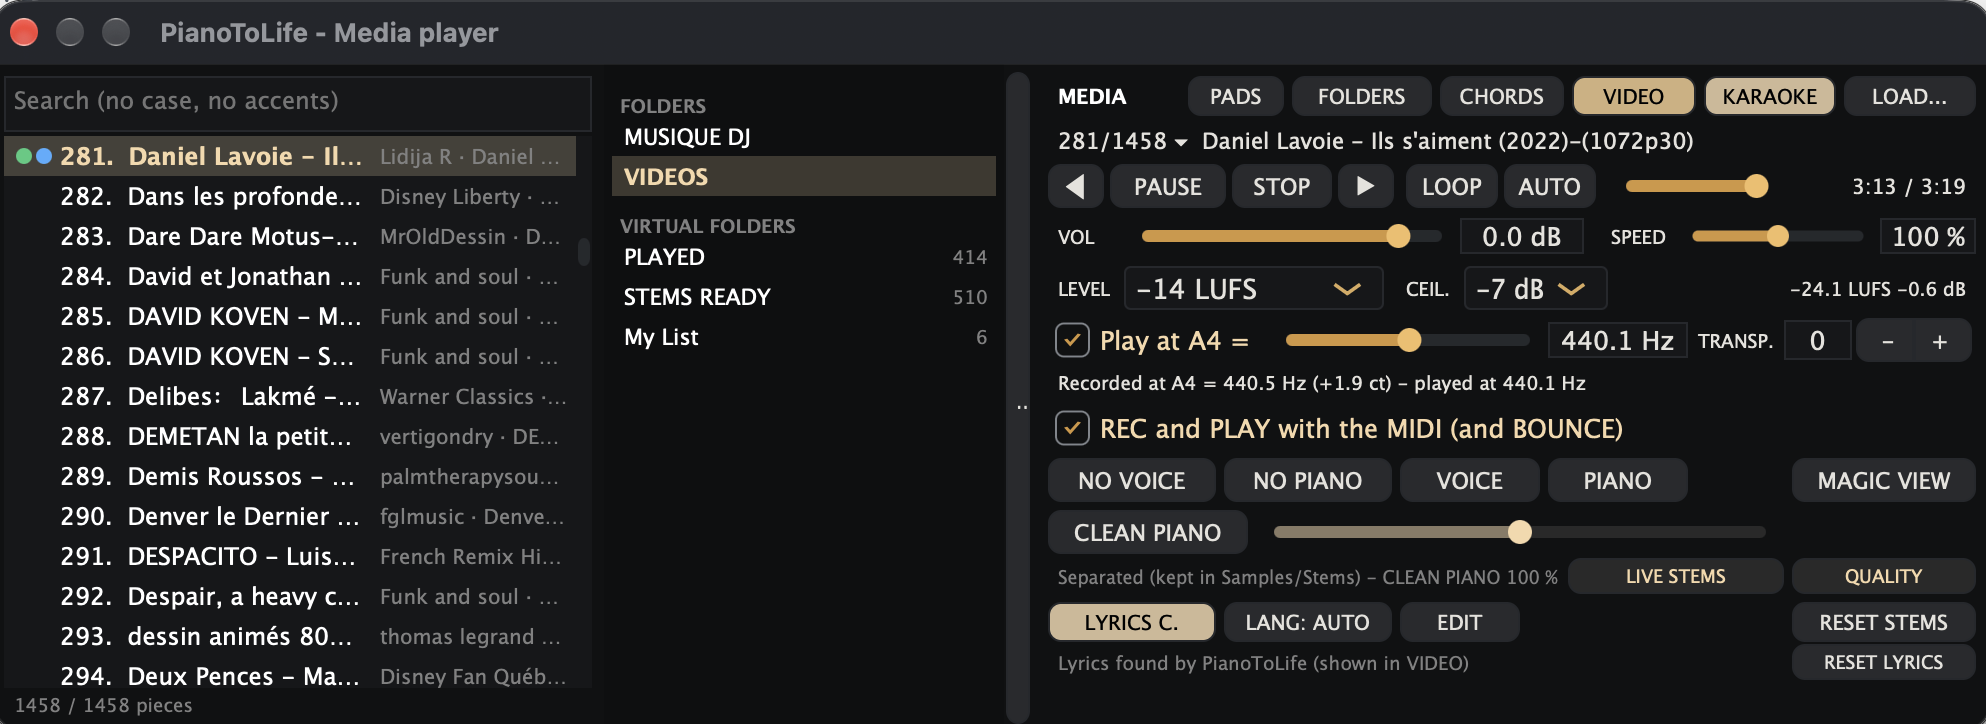
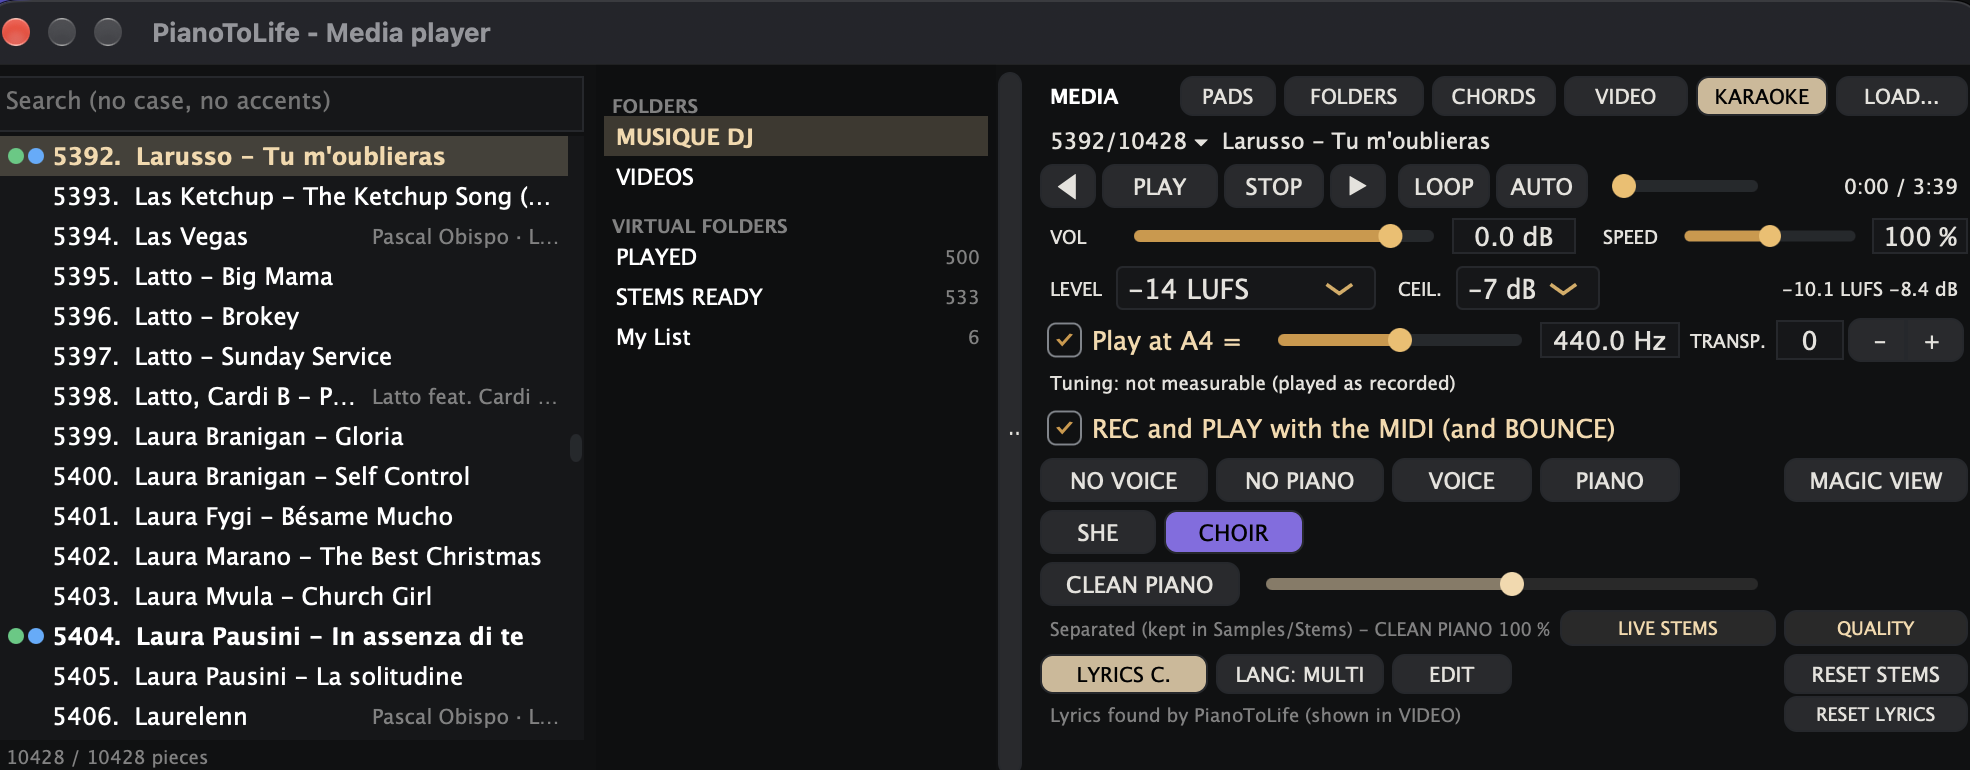
11.3.7: README, manuals, changelog, screenshots

diff --git a/README.md b/README.md
@@ -6,7 +6,7 @@ with one live, physically modelled string engine — from a single held key to e
 <p align="center"><b>New in 10:</b> no hosted piano needed — play your own samples with the built-in sampler.<br>Pedal-up samples are enough: resonance, pedals and noises are modelled live (hybrid sampling + modelling).</p>
 
 <p align="center">
-  <img src="Screenshot-A.png?v=1136" alt="PianoToLife: the main window (SAMPLER mode, a sampled Steinway B)" width="900">
+  <img src="Screenshot-A.png?v=1137" alt="PianoToLife: the main window (SAMPLER mode, a sampled Steinway B)" width="900">
 </p>
 
 <p align="center">
@@ -53,11 +53,11 @@ release or resonance samples. A 3- to 6-layer pedal-up library is enough: PianoT
 so it plays like a deeply sampled piano, even when the library is badly cut or normalised.
 
 <p align="center">
-  <img src="Screenshot-E.png?v=1136" alt="SAMPLER EDIT: the DRY / DENOISE / BODY panel, NOISY 0-100 %" width="900">
+  <img src="Screenshot-E.png?v=1137" alt="SAMPLER EDIT: the DRY / DENOISE / BODY panel, NOISY 0-100 %" width="900">
 </p>
 
 <p align="center">
-  <img src="Screenshot-J.png?v=1136" alt="SAMPLER EDIT: LISTEN from one velocity to another - ALL 1-127, THIS LAYER, ITS BOUNDARY" width="520">
+  <img src="Screenshot-J.png?v=1137" alt="SAMPLER EDIT: LISTEN from one velocity to another - ALL 1-127, THIS LAYER, ITS BOUNDARY" width="520">
 </p>
 
 
@@ -67,7 +67,7 @@ Load a song, a playlist, a folder or a video, and play your piano with it. The M
 (29 EUR or 29 USD minimum, one payment, no subscription; 3 minutes of demo per session without the password).
 
 <p align="center">
-  <img src="Screenshot-B.png?v=1136" alt="The MEDIA player with FOLDERS and the pieces (SEARCH) at its left; VIDEO and KARAOKE, AUTO, SPEED, LEVEL and CEIL., Play at A4 and TRANSP., NO VOICE / NO PIANO / VOICE / PIANO, CLEAN PIANO, LIVE STEMS, LYRICS" width="900">
+  <img src="Screenshot-B.png?v=1137" alt="The MEDIA player with FOLDERS and the pieces (SEARCH) at its left; VIDEO and KARAOKE, AUTO, SPEED, LEVEL and CEIL., Play at A4 and TRANSP., NO VOICE / NO PIANO / VOICE / PIANO, the singers' buttons (SHE, CHOIR), CLEAN PIANO, LIVE STEMS, LYRICS" width="900">
 </p>
 
 - **NO VOICE / NO PIANO / CLEAN PIANO**: the piece separated once on your computer (kept in the stems folder: Samples/Stems, or a folder you choose, shared on the network), then played
@@ -78,7 +78,7 @@ Load a song, a playlist, a folder or a video, and play your piano with it. The M
   network. Then **MASTER** on the one you play on and **FOLLOW** on the other (11.3.4): it separates what you ask.
 
 <p align="center">
-  <img src="Screenshot-I.png?v=1136" alt="Right-click FAST / QUALITY: the stems folder (one shared on the network lets another computer separate for this one)" width="520">
+  <img src="Screenshot-I.png?v=1137" alt="Right-click FAST / QUALITY: the stems folder (one shared on the network lets another computer separate for this one)" width="520">
 </p>
 
 - **In tune and in your key**: *Play at A4* plays the recording at the A4 of your piano (432 to 448 Hz), and **TRANSP.**
@@ -94,7 +94,7 @@ Load a song, a playlist, a folder or a video, and play your piano with it. The M
   film in several languages.
 
 <p align="center">
-  <img src="Screenshot-F.png?v=1136" alt="PADS: 4 x 4 pads on 5 pages, a MIDI controller, MEDIA or PAD, TOGGLE or HOLD, MIDI LEARN" width="640">
+  <img src="Screenshot-F.png?v=1137" alt="PADS: 4 x 4 pads on 5 pages, a MIDI controller, MEDIA or PAD, TOGGLE or HOLD, MIDI LEARN" width="640">
 </p>
 
 > **Disk space.** A file that macOS or Windows cannot read directly — a video's sound (MP4, MOV...), a format decoded by
@@ -107,7 +107,7 @@ Load a song, a playlist, a folder or a video, and play your piano with it. The M
 > large disk for it.
 
 <p align="center">
-  <img src="Screenshot-D.png?v=1136" alt="VIDEO with FOR LIVE: the line sung framed, the next one in full colour (the picture blurred here)" width="900">
+  <img src="Screenshot-D.png?v=1137" alt="VIDEO with FOR LIVE: the line sung framed, the next one in full colour (the picture blurred here)" width="900">
 </p>
 
 - **CHORDS**: the chords and the key of the piece, scrolling in time with it (and transposed with it).
@@ -118,7 +118,7 @@ Load a song, a playlist, a folder or a video, and play your piano with it. The M
 ### LYRICS: found, corrected, in time
 
 <p align="center">
-  <img src="Screenshot-C.png?v=1136" alt="LYRICS EDIT: the lyrics proposed by LRCLIB, what Whisper heard, the lines aligned on the voice; the duet menu (HE, SHE, 1, 2, BOTH, CHOIR); STOP, UNDO / REDO, DELETE LYRICS, ANALYSE DUO" width="900">
+  <img src="Screenshot-C.png?v=1137" alt="LYRICS EDIT: the lyrics proposed by LRCLIB, what Whisper heard, the lines aligned on the voice; the duet menu (HE, SHE, 1, 2, BOTH, CHOIR); STOP, UNDO / REDO, DELETE LYRICS" width="900">
 </p>
 
 - **LYRICS** listens to the separated voice of the piece and writes its lyrics in time (Whisper, on your computer). The
@@ -130,7 +130,29 @@ Load a song, a playlist, a folder or a video, and play your piano with it. The M
 
 ---
 
-## What's new in 11.3.6
+## What's new in 11.3.7
+
+**Duets on stage: each singer's voice on its own, a ball over the words, lyrics that follow the version sung.**
+
+- **Singers' buttons** under the stems: **LEAD / HE / SHE / 1 / 2 / 3 / 4 / BOTH / CHOIR** (the ones the lyrics use).
+  Lit: heard; the others' voice is taken out - sing their part. Right-click **NO VOICE**: **CUT** and **BACK**
+  (when the voice goes and comes back, -1200 to +1200 ms, -300 by default), **FADE OUT** and **FADE IN** (0 to 500 ms).
+- **VIDEO**: **BALL** - a ball jumps from word to word over the line sung (SETTINGS; instead of the pale fill); lines
+  never overlap; VIDEO follows a jump of the player at once. Marks **3** and **4** for four singers.
+- **LYRICS EDIT**: a click on a line plays it at once; **◀ 1 / ◀ .1 / .1 ▶ / 1 ▶** (or the arrow keys) move a line,
+  kept by SAVE; the line on the right shows its line on the left; **TIMES: AUTO / LRC / VOICE** - a cover sung slower or
+  faster is timed on its voice, lines it does not sing are greyed (right-click: *Sung here*); words compared by their
+  sound too; saved by itself before *Who sings each word...* and at its OK, so the change is heard at once.
+- **LYRICS**: **MULTI** for a song in two languages (a pass in each); the singing found from its first phrase; the
+  LRCLIB results ranked by what Whisper heard (**% heard** in the list).
+- **BOUNCE ALL**: *From this piece to the end of the playlist*; it waits for the piece before, skips one that cannot be
+  done (listed at the end) and shows the time left; long silences (pauses between movements) no longer make a
+  bounce start again in real time.
+- **MASTER / FOLLOW**: CANCEL on the master, RESET seen on the follower. Windows: the list of pieces no longer jumps
+  back up while their tags are read.
+- **ANALYSE DUO** is set aside in this version; the marks are put by hand (right-click a line, *Who sings each word...*).
+
+### Also in 11.3.6
 
 **Karaoke for the stage: VIDEO, KARAOKE, FOR LIVE, duets - and lyrics that are found more often.**
 
@@ -141,7 +163,7 @@ Load a song, a playlist, a folder or a video, and play your piano with it. The M
 - **FOR LIVE** (a screen filmed with a phone): a thick outline around the letters, the line sung framed, the next line
   in full colour. **FILL OFF**: the whole line to sing lit at once.
 - **Duets**: HE / SHE / 1 / 2 / BOTH / CHOIR at the start of a line, or for a few words inside it (*Who sings each
-  word...*), each in its own colour in VIDEO; **ANALYSE DUO** proposes them from the height of the voice.
+  word...*), each in its own colour in VIDEO.
 - **LYRICS EDIT**: a **HEARD BY WHISPER** column (click a word: play from it), STOP, UNDO / REDO, DELETE LYRICS, the
   language beside ANALYSE; lines added or moved keep LRCLIB's times; the lyrics saved here stay when it opens again.
 - **LYRICS** finds the words more often: Whisper starts at the first phrase sung (live recordings with a long intro),
@@ -266,11 +288,11 @@ Load a song, a playlist, a folder or a video, and play your piano with it. The M
 - **STEMS READY** lists each separated piece once.
 
 <p align="center">
-  <img src="Screenshot-G.png?v=1136" alt="TEMPERAMENT (SAMPLER): Equal, Stretch 100 %, FIX KEYS and CLEAR FIX, the table Recorded / Played / Shift" width="640">
+  <img src="Screenshot-G.png?v=1137" alt="TEMPERAMENT (SAMPLER): Equal, Stretch 100 %, FIX KEYS and CLEAR FIX, the table Recorded / Played / Shift" width="640">
 </p>
 
 <p align="center">
-  <img src="Screenshot-H.png?v=1136" alt="TEMPERAMENT (HOST): the hosted piano tuned to Equal, Stretch 100 %, FIX KEYS, EXPORT .txt + .scl" width="640">
+  <img src="Screenshot-H.png?v=1137" alt="TEMPERAMENT (HOST): the hosted piano tuned to Equal, Stretch 100 %, FIX KEYS, EXPORT .txt + .scl" width="640">
 </p>
 
 ### Also in 11.2.6

diff --git a/MANUEL.md b/MANUEL.md
@@ -1,6 +1,6 @@
 # PianoToLife — Manuel d'utilisation
 
-*Version 11.3.6 · [English version](USER_MANUAL.md) · Mapping du sampler : [Manuel du sampler](MANUEL_SAMPLER.md)*
+*Version 11.3.7 · [English version](USER_MANUAL.md) · Mapping du sampler : [Manuel du sampler](MANUEL_SAMPLER.md)*
 
 PianoToLife fait **se comporter un piano virtuel comme un vrai** : les cordes qui résonnent par sympathie, la pédale
 de sustain et la demi-pédale, les étouffoirs, le relâchement, l'una corda, les bruits de la mécanique. Ce manuel
@@ -839,9 +839,7 @@ s'entend souvent tout de suite : la salle du piano se révèle, au lieu d'être 
     **BOTH :**, **CHOIR :** (lus aussi : LUI, ELLE, ENSEMBLE, HIM, HER, CHOEUR...). Dans LYRICS EDIT, clic droit sur une
     ligne : qui la chante, *Rename all* (HE / SHE <-> 1 / 2, échanger les deux), ou *Who sings each word...* - un pinceau
     par chanteur, un clic ou un glisser sur les mots : ces mots sont écrits « (SHE: mots) » dans la ligne. Dans VIDEO, la
-    marque s'affiche quand le chanteur change, chaque chanteur dans sa couleur. **ANALYSE DUO** propose les marques
-    d'après la hauteur de la voix séparée (HE / SHE pour un homme et une femme, 1 / 2 pour deux voix plus proches, BOTH
-    quand ils chantent ensemble) ; vérifiez-les, puis SAVE.
+    marque s'affiche quand le chanteur change, chaque chanteur dans sa couleur. Vérifiez-les, puis SAVE.
   - **11.3.6 — LYRICS EDIT** : trois colonnes - les paroles proposées, **HEARD BY WHISPER** (ses mots avec leurs temps ;
     le mot entendu en ce moment allumé ; clic sur un mot : lecture à partir de lui) et les lignes alignées. **STOP** à
     côté de PLAY, **UNDO / REDO** (Cmd+Z / Cmd+Maj+Z) pour ce qui est tapé et les marques posées, **DELETE LYRICS** (ce
@@ -863,6 +861,39 @@ s'entend souvent tout de suite : la salle du piano se révèle, au lieu d'être 
   - **11.3.6 — accordage HOST** (TEMPERAMENT, Piano Model) : la hauteur de chaque touche est son premier partiel quand la
     capture l'a mesuré ; la droite des partiels (inharmonicité) ne sert que là où il manque - moins de fausses
     corrections dans l'aigu avec FIX KEYS.
+  - **11.3.7 — boutons des chanteurs** (sous les stems, quand les paroles ont des marques de duo) : **LEAD** (les mots
+    sans marque, quand d'autres en ont une), **HE**, **SHE**, **1**, **2**, **3**, **4**, **BOTH**, **CHOIR** - seulement
+    ceux que les paroles utilisent. Allumé : ce chanteur est entendu ; plusieurs peuvent être allumés ; aucun : toute la
+    voix. Les mots des chanteurs non allumés sont retirés de la voix, sans interruption entre eux quel que soit le
+    silence, pour que vous chantiez leur partie. NO VOICE passe d'abord (toute la voix retirée). Clic droit sur NO
+    VOICE : **CUT** (quand la voix part) et **BACK** (quand elle revient), de -1200 à +1200 ms, -300 par défaut ;
+    **FADE OUT** et **FADE IN** (0 à 500 ms, 100 par défaut). Une marque en début de ligne (HE :) vaut pour les lignes
+    suivantes, jusqu'à la prochaine ; « (SHE: mots) » seulement pour ces mots. Marques **3** et **4** pour quatre
+    chanteurs.
+  - **11.3.7 — VIDEO** : **BALL** (SETTINGS, à la place du remplissage pâle) : une balle saute de mot en mot au-dessus de
+    la ligne chantée, sur chaque mot quand il commence. Les lignes ne se chevauchent jamais ; après un saut du lecteur,
+    VIDEO suit tout de suite.
+  - **11.3.7 — LYRICS EDIT** : un clic sur une ligne la joue tout de suite ; les colonnes ne bougent pas sous la souris.
+    La ligne choisie à droite : **◀ 1 / ◀ .1 / .1 ▶ / 1 ▶** (ou les flèches, Maj : 1 s) la déplacent, Cmd+Z annule le
+    dernier déplacement, SAVE garde les temps ; sa ligne est allumée à gauche. **TIMES** - **AUTO** : les temps des
+    paroles quand ils collent à la voix, sinon **VOICE** : calées sur la voix, les lignes non entendues étirées entre
+    celles entendues (une reprise chantée plus lentement ou plus vite) ; **LRC** : les temps des paroles tels quels. En
+    VOICE, les lignes que cette version ne chante pas sont grisées et non enregistrées (clic droit : *Sung here*). Les
+    mots sont aussi comparés par leur son (un mot entendu un peu autrement est retrouvé). Les paroles sont enregistrées
+    d'elles-mêmes avant *Who sings each word...* et à son OK - la coupure de la voix suit tout de suite ; les mots du
+    chanteur de la ligne sont montrés dans sa couleur. Le menu des langues a **MULTI** pour une chanson en deux langues
+    (une passe dans chacune). Les résultats LRCLIB sont classés d'après ce que Whisper a entendu (les mots hors
+    parenthèses) : **% heard** à côté de chacun.
+  - **11.3.7 — LYRICS** : le début du chant est retrouvé en remontant jusqu'à 4 s de calme.
+  - **11.3.7 — BOUNCE ALL** : les morceaux peuvent être *From this piece to the end of the playlist* ; chaque morceau
+    attend que le précédent soit écrit (2 minutes au plus), sinon il est sauté et listé à la fin ; le temps restant est
+    affiché. Un bounce rapide ne recommence plus en temps réel pour un long silence de la musique (pauses entre les
+    mouvements) ; quand il le fait, la note dit où le son avait un trou.
+  - **11.3.7 — MASTER / FOLLOW** : CANCEL sur le maître arrête une séparation qu'il a envoyée ; RESET STEMS / RESET
+    LYRICS sur le maître est refait sur le suiveur. Windows : la liste des morceaux ne remonte plus pendant la lecture
+    de leurs tags.
+  - **11.3.7 — ANALYSE DUO** est mis de côté dans cette version : posez les marques à la main (clic droit sur une ligne,
+    *Who sings each word...*).
   - **Place sur le disque** (11.2.1) : un fichier que le système ne lit pas directement — le son d'une vidéo, un format
     décodé par FFmpeg ou une autre piste audio — est décodé une fois et **gardé** dans un cache (Mac : `~/Library/
     Application Support/PianoToLife/Video sound` ; Windows : `%APPDATA%\PianoToLife\Video sound`), les 30 plus récents ;

diff --git a/USER_MANUAL.md b/USER_MANUAL.md
@@ -1,6 +1,6 @@
 # PianoToLife — User Manual
 
-*Version 11.3.6 · [Version française](MANUEL.md) · Sampler mapping: [Sampler Manual](SAMPLER_MANUAL.md)*
+*Version 11.3.7 · [Version française](MANUEL.md) · Sampler mapping: [Sampler Manual](SAMPLER_MANUAL.md)*
 
 PianoToLife makes a virtual piano **behave like a real one**: the strings that ring in sympathy, the sustain pedal
 and half pedal, the dampers, the release, the una corda, the noises of the mechanism. This manual explains how it
@@ -772,9 +772,7 @@ saved beside it, then the BOUNCE options open); PLAY plays the take at once. LOA
     **BOTH :**, **CHOIR :** (also read: LUI, ELLE, ENSEMBLE, HIM, HER, CHOEUR...). In LYRICS EDIT, right-click a line:
     who sings it, *Rename all* (HE / SHE <-> 1 / 2, swap the two), or *Who sings each word...* - a brush per singer, a
     click or a drag over the words: those words are written "(SHE: words)" inside the line. In VIDEO the mark is shown
-    when the singer changes, each singer in its colour. **ANALYSE DUO** proposes the marks from the height of the
-    separated voice (HE / SHE for a man and a woman, 1 / 2 for two voices closer, BOTH when they sing together);
-    check them, then SAVE.
+    when the singer changes, each singer in its colour. Check them, then SAVE.
   - **11.3.6 — LYRICS EDIT**: three columns - the lyrics proposed, **HEARD BY WHISPER** (its words with their times;
     the word heard now lit; click a word: play from it) and the lines aligned. **STOP** beside PLAY, **UNDO / REDO**
     (Cmd+Z / Cmd+Shift+Z) for what is typed and the marks put, **DELETE LYRICS** (what PianoToLife found for this piece;
@@ -795,6 +793,35 @@ saved beside it, then the BOUNCE options open); PLAY plays the take at once. LOA
   - **11.3.6 — HOST tuning** (TEMPERAMENT, Piano Model): each key's pitch is its first partial when the capture measured
     it; the line of the partials (inharmonicity) is used only where it is missing - fewer false corrections in the
     treble with FIX KEYS.
+  - **11.3.7 — singers' buttons** (under the stems, when the lyrics have duet marks): **LEAD** (the words without a
+    mark, when some have one), **HE**, **SHE**, **1**, **2**, **3**, **4**, **BOTH**, **CHOIR** - only the ones the lyrics
+    use. Lit: that singer is heard; several can be lit; none lit: the whole voice. The words of the singers not lit
+    are taken out of the voice, without a break between them however long the silence, so that you sing their part.
+    NO VOICE comes first (the whole voice out). Right-click NO VOICE: **CUT** (when the voice goes) and **BACK** (when
+    it comes back), -1200 to +1200 ms, -300 by default; **FADE OUT** and **FADE IN** (0 to 500 ms, 100 by default).
+    A mark at the start of a line (HE :) counts for the lines after it, up to the next one; "(SHE: words)" only for
+    those words. Marks **3** and **4** for four singers.
+  - **11.3.7 — VIDEO**: **BALL** (SETTINGS, instead of the pale fill): a ball jumps from word to word over the line
+    sung, landing on each word as it starts. The lines never overlap; after a jump of the player VIDEO follows at once.
+  - **11.3.7 — LYRICS EDIT**: a click on a line plays it at once; the columns stay where they are under the mouse.
+    The line chosen on the right: **◀ 1 / ◀ .1 / .1 ▶ / 1 ▶** (or the arrow keys, Shift: 1 s) move it, Cmd+Z undoes the
+    last move, SAVE keeps the times; its line is lit on the left. **TIMES** - **AUTO**: the lyrics' own times when they
+    fit the voice, else **VOICE**: timed on the voice, the lines not heard stretched between the ones heard (a cover
+    sung slower or faster); **LRC**: the lyrics' times as they are. With VOICE, lines this version does not sing are
+    greyed and not saved (right-click: *Sung here*). The words are compared by their sound too (a word heard a little
+    differently is found). The lyrics are saved by themselves before *Who sings each word...* and at its OK - the
+    voice cut follows at once; the words of the line's singer are shown in its colour. The language menu has
+    **MULTI** for a song in two languages (a pass in each). The LRCLIB results are ranked by what Whisper heard (the
+    words outside brackets): **% heard** beside each one.
+  - **11.3.7 — LYRICS**: the start of the singing is found back over up to 4 s of quiet.
+  - **11.3.7 — BOUNCE ALL**: the pieces can be *From this piece to the end of the playlist*; each piece waits for the
+    one before to be written (2 minutes at most), else it is skipped and listed at the end; the time left is shown.
+    A fast bounce no longer starts again in real time for a long silence in the music (pauses between movements);
+    when it does, the note says where the sound had a hole.
+  - **11.3.7 — MASTER / FOLLOW**: CANCEL on the master stops a separation it sent; RESET STEMS / RESET LYRICS on the
+    master is done on the follower too. Windows: the list of pieces no longer jumps back up while their tags are read.
+  - **11.3.7 — ANALYSE DUO** is set aside in this version: put the marks by hand (right-click a line, *Who sings each
+    word...*).
   - **Disk space** (11.2.1): a file the system cannot read directly — a video's sound, a format decoded by FFmpeg, or
     another audio track — is decoded once and **kept** in a cache (Mac: `~/Library/Application Support/PianoToLife/Video
     sound`; Windows: `%APPDATA%\PianoToLife\Video sound`), the 30 newest; a long film can take more than 1 GB. Delete

diff --git a/CHANGELOG.md b/CHANGELOG.md
@@ -2,6 +2,28 @@
 
 Every version, the newest first. The [README](README.md) shows what PianoToLife does today.
 
+## 11.3.7
+
+**Duets on stage: each singer's voice on its own, a ball over the words, lyrics that follow the version sung.**
+
+- **Singers' buttons** under the stems: **LEAD / HE / SHE / 1 / 2 / 3 / 4 / BOTH / CHOIR** (the ones the lyrics use).
+  Lit: heard; the others' voice is taken out - sing their part. Right-click **NO VOICE**: **CUT** and **BACK**
+  (when the voice goes and comes back, -1200 to +1200 ms, -300 by default), **FADE OUT** and **FADE IN** (0 to 500 ms).
+- **VIDEO**: **BALL** - a ball jumps from word to word over the line sung (SETTINGS; instead of the pale fill); lines
+  never overlap; VIDEO follows a jump of the player at once. Marks **3** and **4** for four singers.
+- **LYRICS EDIT**: a click on a line plays it at once; **◀ 1 / ◀ .1 / .1 ▶ / 1 ▶** (or the arrow keys) move a line,
+  kept by SAVE; the line on the right shows its line on the left; **TIMES: AUTO / LRC / VOICE** - a cover sung slower or
+  faster is timed on its voice, lines it does not sing are greyed (right-click: *Sung here*); words compared by their
+  sound too; saved by itself before *Who sings each word...* and at its OK, so the change is heard at once.
+- **LYRICS**: **MULTI** for a song in two languages (a pass in each); the singing found from its first phrase; the
+  LRCLIB results ranked by what Whisper heard (**% heard** in the list).
+- **BOUNCE ALL**: *From this piece to the end of the playlist*; it waits for the piece before, skips one that cannot be
+  done (listed at the end) and shows the time left; long silences (pauses between movements) no longer make a
+  bounce start again in real time.
+- **MASTER / FOLLOW**: CANCEL on the master, RESET seen on the follower. Windows: the list of pieces no longer jumps
+  back up while their tags are read.
+- **ANALYSE DUO** is set aside in this version; the marks are put by hand (right-click a line, *Who sings each word...*).
+
 ## 11.3.6
 
 **Karaoke for the stage: VIDEO, KARAOKE, FOR LIVE, duets - and lyrics that are found more often.**
@@ -13,7 +35,7 @@ Every version, the newest first. The [README](README.md) shows what PianoToLife 
 - **FOR LIVE** (a screen filmed with a phone): a thick outline around the letters, the line sung framed, the next line
   in full colour. **FILL OFF**: the whole line to sing lit at once.
 - **Duets**: HE / SHE / 1 / 2 / BOTH / CHOIR at the start of a line, or for a few words inside it (*Who sings each
-  word...*), each in its own colour in VIDEO; **ANALYSE DUO** proposes them from the height of the voice.
+  word...*), each in its own colour in VIDEO.
 - **LYRICS EDIT**: a **HEARD BY WHISPER** column (click a word: play from it), STOP, UNDO / REDO, DELETE LYRICS, the
   language beside ANALYSE; lines added or moved keep LRCLIB's times; the lyrics saved here stay when it opens again.
 - **LYRICS** finds the words more often: Whisper starts at the first phrase sung (live recordings with a long intro),

diff --git a/MANUEL_SAMPLER.md b/MANUEL_SAMPLER.md
@@ -1,6 +1,6 @@
 # Sampler de PianoToLife — Manuel d'utilisation
 
-*Version 11.3.6 · [English version](SAMPLER_MANUAL.md) · Manuel général : [Manuel d'utilisation](MANUEL.md)*
+*Version 11.3.7 · [English version](SAMPLER_MANUAL.md) · Manuel général : [Manuel d'utilisation](MANUEL.md)*
 
 Le sampler intégré de PianoToLife joue **vos propres échantillons de piano**, avec tous les moteurs de PianoToLife
 par-dessus. Ce manuel explique comment transformer un dossier d'échantillons en piano jouable, ce que fait chaque

diff --git a/SAMPLER_MANUAL.md b/SAMPLER_MANUAL.md
@@ -1,6 +1,6 @@
 # PianoToLife Sampler — User Manual
 
-*Version 11.3.6 · [Version française](MANUEL_SAMPLER.md) · General manual: [User Manual](USER_MANUAL.md)*
+*Version 11.3.7 · [Version française](MANUEL_SAMPLER.md) · General manual: [User Manual](USER_MANUAL.md)*
 
 PianoToLife's built-in sampler plays **your own piano samples** with all of PianoToLife's engines on top of
 them. This manual explains how to turn a folder of samples into a playable piano, what every button does, and
